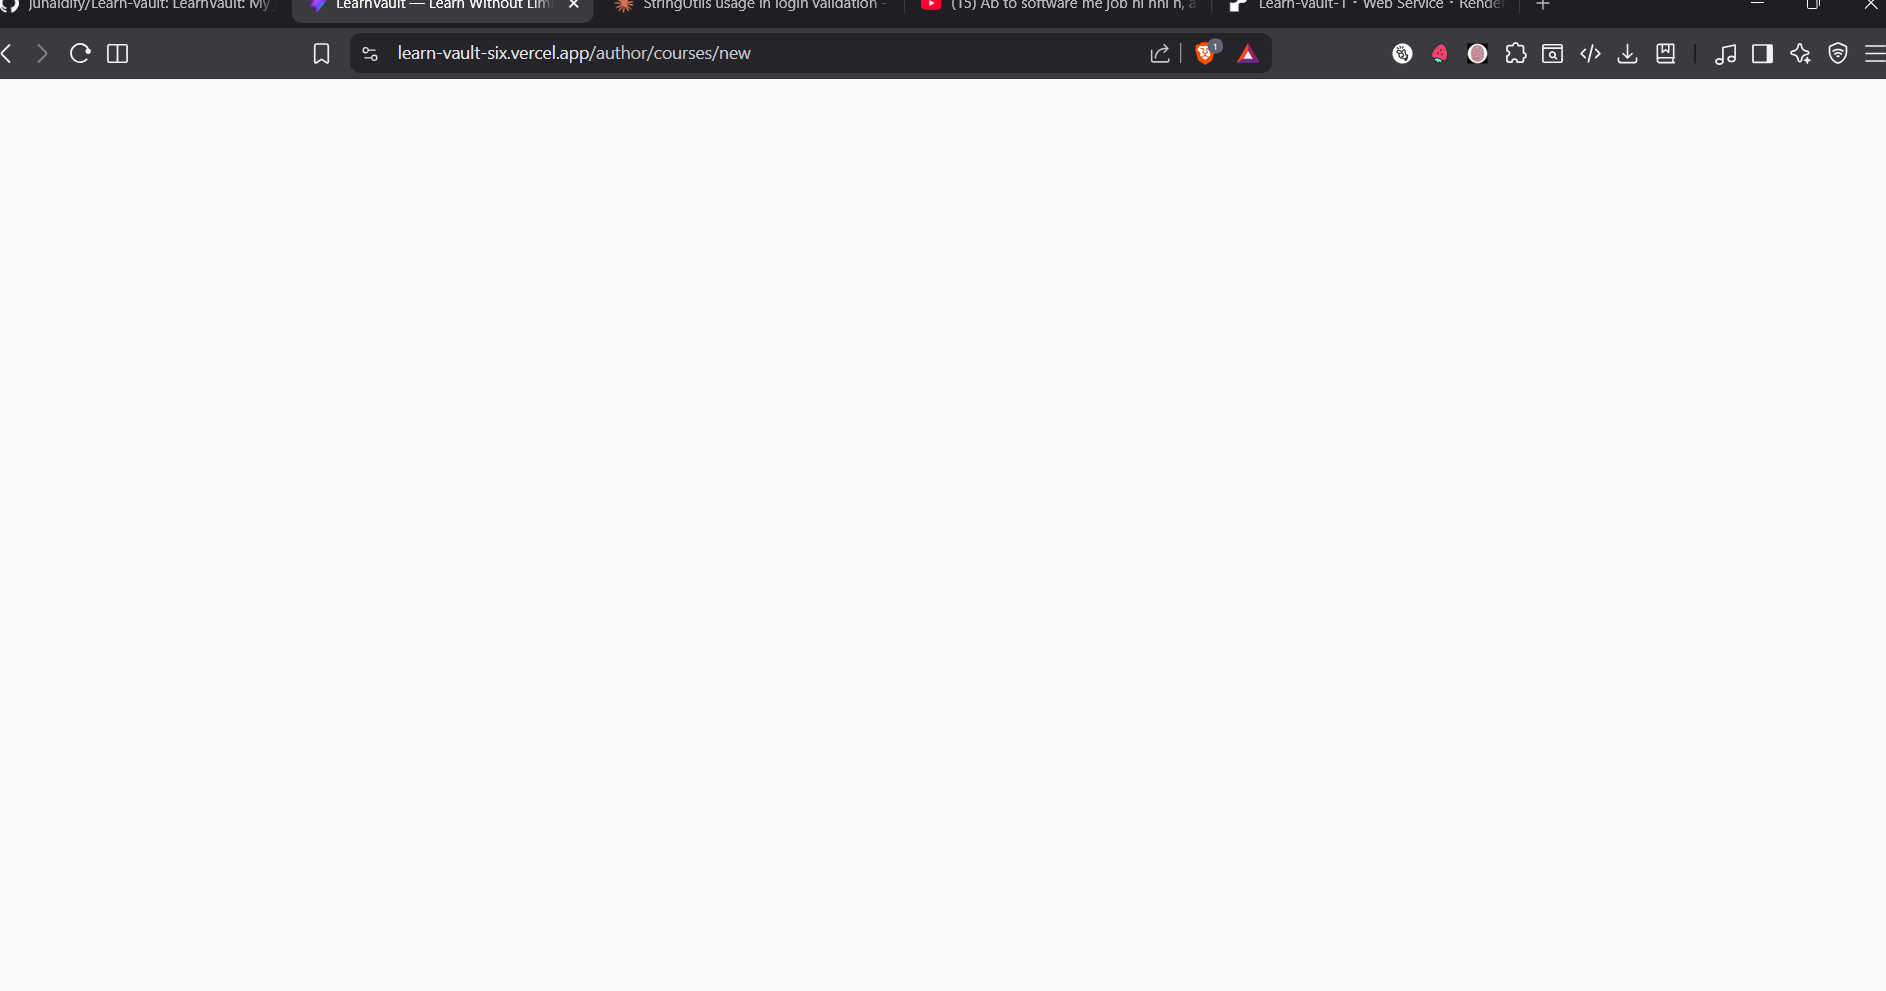
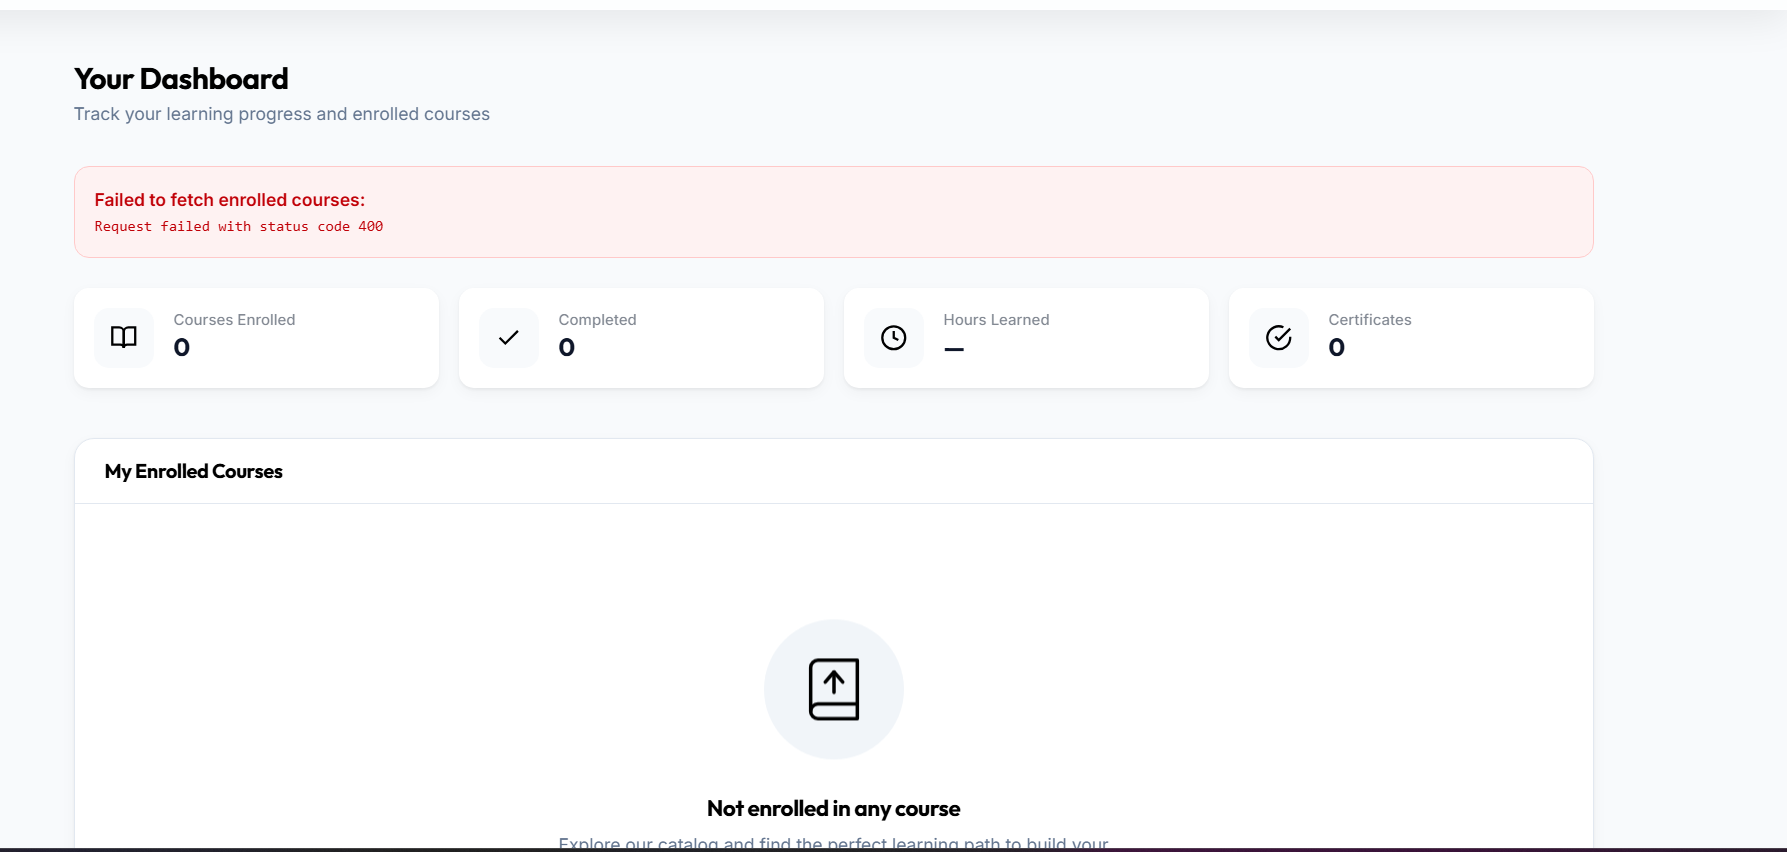
fix(courses): handle null/blank videoKeys gracefully and update brand to LearnVault

diff --git a/frontend/src/pages/CatalogPage.tsx b/frontend/src/pages/CatalogPage.tsx
@@ -123,7 +123,7 @@ export default function CatalogPage() {
 
           {/* Subtitle */}
           <p className="mx-auto mt-6 max-w-2xl text-base leading-relaxed text-slate-600 sm:text-lg">
-            Tutorly is designed for creators, educators, trainers, and academies who want to launch a powerful online learning platform.
+            LearnVault is designed for creators, educators, trainers, and academies who want to launch a powerful online learning platform.
           </p>
 
           {/* Search bar (pill shape) */}
@@ -252,19 +252,19 @@ export default function CatalogPage() {
             {/* Left side text and stats */}
             <div>
               <span className="text-sm font-bold uppercase tracking-wider text-slate-500">
-                About Tutorly
+                About LearnVault
               </span>
               <h2
                 className="mt-3 text-3xl font-extrabold text-black sm:text-4xl leading-tight"
                 style={{ fontFamily: 'var(--font-heading)' }}
               >
-                Tutorly helps creators deliver this through a professional, structured, and conversion-optimized platform. Learners want practical skills, and flexible learning.
+                LearnVault helps creators deliver this through a professional, structured, and conversion-optimized platform. Learners want practical skills, and flexible learning.
               </h2>
               
               {/* Contact Us Pill Button */}
               <div className="mt-8">
                 <a
-                  href="mailto:contact@tutorly.com"
+                  href="mailto:contact@learnvault.com"
                   className="inline-flex items-center gap-3 rounded-full bg-black py-3 pl-6 pr-3 text-sm font-semibold text-white no-underline shadow-md transition-all hover:bg-slate-900"
                 >
                   <span>CONTACT US</span>
@@ -282,7 +282,7 @@ export default function CatalogPage() {
                 </div>
                 <div>
                   <span className="block text-2xl sm:text-3xl font-black text-black">25000+</span>
-                  <span className="mt-1 block text-xs sm:text-sm text-slate-500 leading-snug">students enrolled our tutorly courses</span>
+                  <span className="mt-1 block text-xs sm:text-sm text-slate-500 leading-snug">students enrolled in our learn-vault courses</span>
                 </div>
                 <div>
                   <span className="block text-2xl sm:text-3xl font-black text-black">100%</span>
@@ -297,7 +297,7 @@ export default function CatalogPage() {
               <div className="absolute -inset-4 rounded-3xl bg-slate-200 transform rotate-1 opacity-50" />
               <img
                 src="/images/about_instructor.jpg"
-                alt="Tutorly Professional Learning"
+                alt="LearnVault Professional Learning"
                 className="relative w-full rounded-2xl shadow-xl object-cover"
                 style={{ maxHeight: '420px' }}
               />

diff --git a/frontend/src/components/layout/Navbar.tsx b/frontend/src/components/layout/Navbar.tsx
@@ -46,13 +46,14 @@ export default function Navbar() {
       <nav className="mx-auto flex max-w-7xl items-center justify-between px-4 py-3 sm:px-6 lg:px-8">
         {/* Logo */}
         <Link to="/" className="flex items-center gap-2.5 no-underline">
-          <div className="flex h-9 w-9 items-center justify-center rounded-full bg-black">
-            <svg width="18" height="18" viewBox="0 0 24 24" fill="white">
-              <path d="M13 2L3 14h9l-1 8 10-12h-9l1-8z"/>
+          <div className="flex h-9 w-9 items-center justify-center rounded-lg bg-black">
+            <svg width="18" height="18" viewBox="0 0 24 24" fill="none" stroke="white" strokeWidth="2.5" strokeLinecap="round" strokeLinejoin="round">
+              <path d="M2 3h6a4 4 0 0 1 4 4v14a3 3 0 0 0-3-3H2z"/>
+              <path d="M22 3h-6a4 4 0 0 0-4 4v14a3 3 0 0 1 3-3h7z"/>
             </svg>
           </div>
           <span className="text-xl font-extrabold tracking-tight" style={{ fontFamily: 'var(--font-heading)', color: '#000000' }}>
-            tutorly<span className="text-gray-400">.</span>
+            learn-vault<span className="text-gray-400">.</span>
           </span>
         </Link>
 

diff --git a/frontend/src/index.css b/frontend/src/index.css
@@ -5,7 +5,7 @@
    ========================================= */
 
 @theme {
-  /* Brand colors (Tutorly Black/Slate theme) */
+  /* Brand colors (LearnVault Black/Slate theme) */
   --color-brand-50: #F8FAFC;
   --color-brand-100: #F1F5F9;
   --color-brand-200: #E2E8F0;

diff --git a/backend/src/main/java/learn_vault/service/CourseService.java b/backend/src/main/java/learn_vault/service/CourseService.java
@@ -127,12 +127,7 @@ public class CourseService {
                 .orElseThrow(() -> new ResourceNotFoundException("Course with ID " + id + " not found"));
 
         boolean hasAccess = checkUserAccess(course, currentUser);
-        String preSignedUrl = null; 
-
-        
-       if(hasAccess && course.getVideoKey() != null && !course.getVideoKey().isBlank()){
-         preSignedUrl = s3Service.generatePresignedUrl((course.getVideoKey()));
-       }
+        String preSignedUrl = getPresignedUrlIfHasAccess(course, currentUser);
 
         return new CourseResponseDto(course, hasAccess, preSignedUrl);
     }
@@ -144,7 +139,7 @@ public class CourseService {
         }
         return enrollmentRepository.findByUser_IdAndEnrollmentStatus(currentUser.getId(), EnrollmentStatus.ACTIVE)
                 .stream()
-                .map(enrollment -> new CourseResponseDto(enrollment.getCourse(), true, checkUserAccess(enrollment.getCourse(), currentUser) ? s3Service.generatePresignedUrl(enrollment.getCourse().getVideoKey()) : null))
+                .map(enrollment -> new CourseResponseDto(enrollment.getCourse(), true, getPresignedUrlIfHasAccess(enrollment.getCourse(), currentUser)))
                 .toList();
     }
 
@@ -161,6 +156,24 @@ public class CourseService {
        return enrollmentRepository.existsByUser_IdAndCourse_Id(currentUser.getId(), course.getId());
     }
 
+    private String getPresignedUrlIfHasAccess(CourseEntity course, UserEntity currentUser) {
+        if (course == null || !checkUserAccess(course, currentUser)) {
+            return null;
+        }
+        String key = course.getVideoKey();
+        if (key == null || key.isBlank()) {
+            return null;
+        }
+        if (key.startsWith("http://") || key.startsWith("https://")) {
+            return key;
+        }
+        try {
+            return s3Service.generatePresignedUrl(key);
+        } catch (Exception e) {
+            return key;
+        }
+    }
+
     @Transactional(readOnly = true)
     public List<CourseResponseDto> getAuthorCourses(UserEntity currentUser) {
         if (currentUser == null) {
@@ -172,7 +185,7 @@ public class CourseService {
         }
         return courseRepository.findByAuthor_Id(author.getId())
                 .stream()
-                .map(course -> new CourseResponseDto(course, true, checkUserAccess(course, currentUser) ? s3Service.generatePresignedUrl(course.getVideoKey()) : null))
+                .map(course -> new CourseResponseDto(course, true, getPresignedUrlIfHasAccess(course, currentUser)))
                 .toList();
     }
 

diff --git a/backend/src/test/java/learn_vault/service/CourseServiceTest.java b/backend/src/test/java/learn_vault/service/CourseServiceTest.java
@@ -43,6 +43,7 @@ class CourseServiceTest {
     @Mock CourseRepository courseRepository;
     @Mock AuthorRepository authorRepository;
     @Mock UserRepository userRepository;
+    @Mock learn_vault.repository.EnrollmentRepository enrollmentRepository;
     @Mock CourseMapper courseMapper;
     @Mock S3Service s3Service;
 
@@ -230,5 +231,29 @@ class CourseServiceTest {
         assertThatThrownBy(() -> courseService.getCourse(99L, authorUser))
                 .isInstanceOf(ResourceNotFoundException.class)
                 .hasMessageContaining("not found");
+    }
+
+    // ── getEnrolledCourses ───────────────────────────────────────────
+
+    @Test
+    void getEnrolledCourses_shouldReturnEnrolledCourses_whenVideoKeyIsNull() {
+        UserEntity student = new UserEntity("Jane", "jane1", "jane@example.com", "pass", Role.STUDENT);
+        org.springframework.test.util.ReflectionTestUtils.setField(student, "id", 2L);
+
+        CourseEntity course = new CourseEntity("Free Java", "Java desc", 0L, Category.TECH, true, author, null);
+        org.springframework.test.util.ReflectionTestUtils.setField(course, "id", 10L);
+
+        learn_vault.entity.enrollment.EnrollmentEntity enrollment = new learn_vault.entity.enrollment.EnrollmentEntity(
+                course, student, learn_vault.enums.EnrollmentStatus.ACTIVE, java.time.LocalDateTime.now()
+        );
+
+        when(enrollmentRepository.findByUser_IdAndEnrollmentStatus(2L, learn_vault.enums.EnrollmentStatus.ACTIVE))
+                .thenReturn(List.of(enrollment));
+
+        List<CourseResponseDto> enrolled = courseService.getEnrolledCourses(student);
+
+        assertThat(enrolled).hasSize(1);
+        assertThat(enrolled.get(0).getName()).isEqualTo("Free Java");
+        assertThat(enrolled.get(0).getVideoUrl()).isNull();
     }
 }
